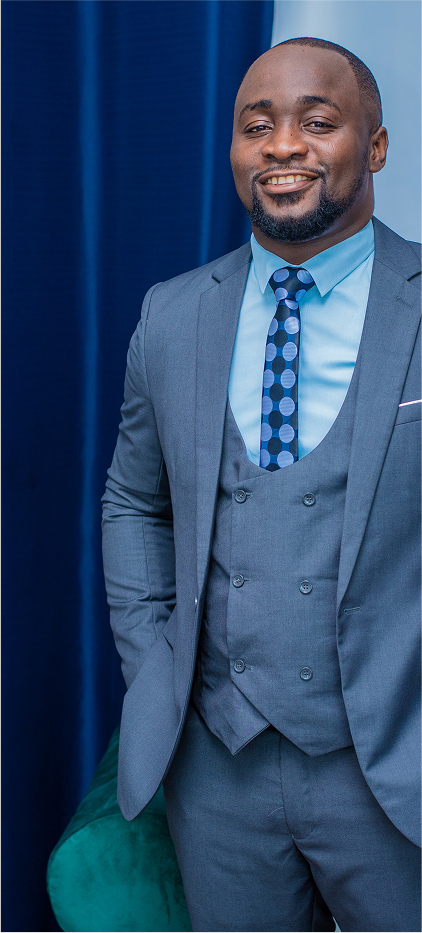
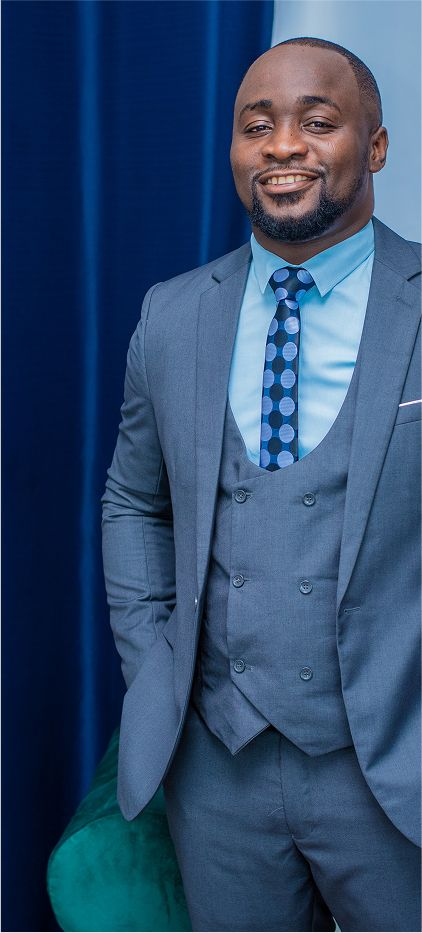
Switch to Plus Jakarta Sans, optimize images, add SEO and accessibility
- Single clean typeface (Plus Jakarta Sans) for headings and body
- Images compressed (11 MB to 1.3 MB), unused assets removed, lazy loading
- Open Graph metadata, sitemap, robots, web manifest
- Skip link, visible focus styles
- Unused 81 MB genese.mp4 moved out of public/ to source-assets/

Changed region(s): [[0.6469, 0.2797, 0.7393, 0.4041], [0.6161, 0.4352, 0.7085, 0.4973]]

diff --git a/src/app/globals.css b/src/app/globals.css
@@ -24,13 +24,13 @@
 }
 * { box-sizing: border-box; margin: 0; padding: 0; }
 html { scroll-behavior: smooth; }
-body { font-family: var(--font-body), system-ui, sans-serif; font-size: var(--fs-body); color: var(--ink); background: #fff; line-height: 1.65; -webkit-font-smoothing: antialiased; overflow-x: hidden; }
+body { font-family: var(--font-body), system-ui, sans-serif; font-weight: 400; font-size: var(--fs-body); color: var(--ink); background: #fff; line-height: 1.65; -webkit-font-smoothing: antialiased; overflow-x: hidden; }
 a { color: inherit; text-decoration: none; }
 img { max-width: 100%; display: block; }
 ul { list-style: none; }
 button { font: inherit; }
-h1, h2 { font-family: var(--font-body), sans-serif; font-weight: 800; text-transform: uppercase; line-height: 1.02; letter-spacing: -0.01em; }
-h3 { font-family: var(--font-display), serif; font-weight: 400; font-size: var(--fs-h3); line-height: 1.25; }
+h1, h2 { font-family: var(--font-body), sans-serif; font-weight: 800; text-transform: uppercase; line-height: 1.05; letter-spacing: -0.02em; }
+h3 { font-family: var(--font-body), sans-serif; font-weight: 700; font-size: var(--fs-h3); line-height: 1.25; letter-spacing: -0.005em; }
 @media (prefers-reduced-motion: reduce) { * { animation: none !important; transition: none !important; scroll-behavior: auto !important; } }
 
 .container { width: 100%; max-width: var(--maxw); margin: 0 auto; padding: 0 var(--gutter); }
@@ -223,6 +223,12 @@ a.store:hover { transform: translateY(-2px); }
 .testi footer { margin-top: auto; font-weight: 700; font-size: var(--fs-small); letter-spacing: .12em; text-transform: uppercase; color: var(--gold-text); }
 .tabs { display: flex; gap: .6rem; flex-wrap: wrap; justify-content: center; margin-bottom: 2rem; }
 .row-card { display: flex; flex-wrap: wrap; justify-content: space-between; gap: .6rem 2rem; align-items: baseline; padding: 1.4rem 1.6rem; border: 1px solid rgba(178,154,79,.35); border-radius: var(--radius); background: #fff; }
-.row-card strong { color: var(--navy); font-family: var(--font-display); font-weight: 400; font-size: var(--fs-h3); }
+.row-card strong { color: var(--navy); font-weight: 700; font-size: var(--fs-h3); }
 .row-card span { color: var(--muted); }
 .steps { counter-reset: s; }
+
+.skip { position: absolute; left: -999px; top: 0; background: var(--gold); color: var(--ink); padding: .8rem 1.2rem; z-index: 100; font-weight: 700; }
+.skip:focus { left: 1rem; top: 1rem; }
+:focus-visible { outline: 3px solid var(--gold-deep); outline-offset: 3px; border-radius: 4px; }
+.hero :focus-visible, .bg-dark :focus-visible, .footer :focus-visible, .banner :focus-visible { outline-color: var(--gold); }
+::selection { background: var(--gold); color: var(--ink); }

diff --git a/src/app/layout.jsx b/src/app/layout.jsx
@@ -1,22 +1,29 @@
-import { Marcellus, Montserrat } from 'next/font/google';
+import { Plus_Jakarta_Sans } from 'next/font/google';
 import './globals.css';
 import Navbar from '@/components/Navbar';
 import Footer from '@/components/Footer';
 
-const display = Marcellus({ subsets: ['latin'], weight: '400', variable: '--font-display' });
-const body = Montserrat({ subsets: ['latin'], variable: '--font-body' });
+const jakarta = Plus_Jakarta_Sans({ subsets: ['latin'], weight: ['400', '500', '600', '700', '800'], variable: '--font-body', display: 'swap' });
+
+const SITE_URL = process.env.NEXT_PUBLIC_SITE_URL || 'https://maisondelatransformation.com';
+
+export const viewport = { themeColor: '#0b1633' };
 
 export const metadata = {
+  metadataBase: new URL(SITE_URL),
   title: { default: 'La Maison de la Transformation', template: '%s | La Maison de la Transformation' },
   description: 'Une église où le Seigneur nous transforme à son image, de gloire en gloire. Abomey-Calavi, Bénin.',
+  openGraph: { type: 'website', locale: 'fr_FR', siteName: 'La Maison de la Transformation', images: ['/img/church-image.jpg'] },
+  twitter: { card: 'summary_large_image' },
 };
 
 export default function RootLayout({ children }) {
   return (
-    <html lang="fr" className={`${display.variable} ${body.variable}`}>
+    <html lang="fr" className={jakarta.variable}>
       <body>
+        <a href="#contenu" className="skip">Aller au contenu</a>
         <Navbar />
-        <main>{children}</main>
+        <main id="contenu">{children}</main>
         <Footer />
       </body>
     </html>

diff --git a/src/app/page.jsx b/src/app/page.jsx
@@ -64,7 +64,7 @@ export default function Home() {
       </section>
 
       {/* 4. Bannière plein écran */}
-      <section className="banner" style={{ backgroundImage: 'url(/img/fond2.png)' }}>
+      <section className="banner" style={{ backgroundImage: 'url(/img/fond2.jpg)' }}>
         <div className="container stack">
           <h2 className="h2">Nous nous glorifions en <span className="accent">Christ Jésus</span></h2>
           <p className="lead">Notre plus belle réussite est la grâce de voir des personnes, autrefois simples chercheurs de Dieu, devenir des disciples mûrs et de vaillants serviteurs de l’Évangile.</p>
@@ -93,7 +93,7 @@ export default function Home() {
       {/* 6. Pasteur principal */}
       <section className="section bg-dark">
         <div className="container split">
-          <img src="/img/PastorImage.jpg" alt="Pasteur Herbert Donald" style={{ objectPosition: 'top' }} />
+          <img loading="lazy" src="/img/PastorImage.jpg" alt="Pasteur Herbert Donald" style={{ objectPosition: 'top' }} />
           <div className="stack">
             <h2 className="h2">Notre pasteur <span className="accent">principal</span></h2>
             <p className="lead">Le pasteur Herbert Donald est le pasteur principal de La Maison de la Transformation, une église où le Seigneur œuvre puissamment pour nous transformer à Son image, de gloire en gloire, par l’enseignement de la Parole et la conduite du Saint-Esprit.</p>

diff --git a/src/app/give/page.jsx b/src/app/give/page.jsx
@@ -17,7 +17,7 @@ const METHODS = [
 export default function Page() {
   return (
     <>
-      <Hero eyebrow="Donner" title="Votre générosité," accent="notre mission" text="Donnez pour soutenir la vision de la Maison de la Transformation et l’avancement de l’Évangile." image="/img/fond2.png">
+      <Hero eyebrow="Donner" title="Votre générosité," accent="notre mission" text="Donnez pour soutenir la vision de la Maison de la Transformation et l’avancement de l’Évangile." image="/img/fond2.jpg">
         <div className="btn-row center"><a className="btn btn-gold" href="#moyens">Donner maintenant</a><Link className="btn btn-outline" href="/building-project">Autres façons de donner</Link></div>
       </Hero>
 

diff --git a/src/app/sitemap.js b/src/app/sitemap.js
@@ -1,0 +1,5 @@
+const SITE_URL = process.env.NEXT_PUBLIC_SITE_URL || 'https://maisondelatransformation.com';
+const ROUTES = ['', '/about', '/ql', '/campuses', '/cell-church', '/map', '/give', '/building-project', '/celebrations', '/ministries', '/membership-class', '/membership', '/prayer-request', '/first-timers', '/online-community', '/counselling', '/pre-marital-counselling', '/post-marital-counselling', '/welfare', '/volunteers', '/testimony', '/sermons', '/events', '/contact'];
+export default function sitemap() {
+  return ROUTES.map((r) => ({ url: `${SITE_URL}${r}`, changeFrequency: 'weekly', priority: r === '' ? 1 : 0.7 }));
+}

diff --git a/src/app/ql/page.jsx b/src/app/ql/page.jsx
@@ -7,7 +7,7 @@ export const metadata = { title: 'Liens rapides' };
 export default function QL() {
   return (
     <>
-      <Hero eyebrow="Liens rapides" title="Bienvenue à la" accent="Maison de la Transformation" image="/img/fond2.png" />
+      <Hero eyebrow="Liens rapides" title="Bienvenue à la" accent="Maison de la Transformation" image="/img/fond2.jpg" />
       <section className="section bg-cream">
         <div className="container"><div className="ql-list">
           {QUICK_LINKS.map(([l, h]) => <Link key={h} href={h}><span>{l}</span><span aria-hidden>→</span></Link>)}

diff --git a/src/app/ministries/page.jsx b/src/app/ministries/page.jsx
@@ -11,7 +11,7 @@ export default function Page() {
       {MINISTRIES.map((m, i) => (
         <section key={m.id} id={m.id} className={`section ${i % 2 ? 'bg-cream' : ''}`}>
           <div className={`container split ${i % 2 ? 'rev' : ''}`}>
-            <img src={m.img} alt={m.title} />
+            <img loading="lazy" src={m.img} alt={m.title} />
             <div className="stack">
               <span className="pill" style={{ color: 'var(--navy)' }}>Ministère</span>
               <h2 className="h2">{m.title}</h2>

diff --git a/src/app/about/page.jsx b/src/app/about/page.jsx
@@ -63,7 +63,7 @@ export default function About() {
 
       <section className="section bg-dark" id="pasteur">
         <div className="container split">
-          <img src="/img/pasteur1.jpg" alt="Pasteur Herbert Donald" />
+          <img loading="lazy" src="/img/pasteur1.jpg" alt="Pasteur Herbert Donald" />
           <div className="stack">
             <h2 className="h2">Notre pasteur <span className="accent">principal</span></h2>
             <h3 style={{ color: 'var(--gold)' }}>Héribert Donald Mélé</h3>

diff --git a/src/app/manifest.js b/src/app/manifest.js
@@ -1,0 +1,3 @@
+export default function manifest() {
+  return { name: 'La Maison de la Transformation', short_name: 'MDT', start_url: '/', display: 'standalone', background_color: '#0b1633', theme_color: '#0b1633', icons: [{ src: '/favicon.ico', sizes: 'any', type: 'image/x-icon' }] };
+}

diff --git a/src/app/robots.js b/src/app/robots.js
@@ -1,0 +1,4 @@
+const SITE_URL = process.env.NEXT_PUBLIC_SITE_URL || 'https://maisondelatransformation.com';
+export default function robots() {
+  return { rules: [{ userAgent: '*', allow: '/', disallow: '/api/' }], sitemap: `${SITE_URL}/sitemap.xml` };
+}
